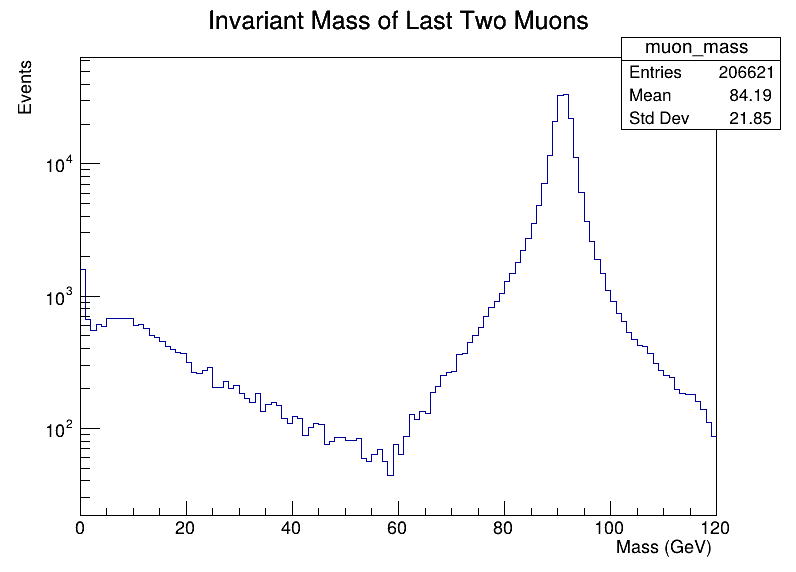
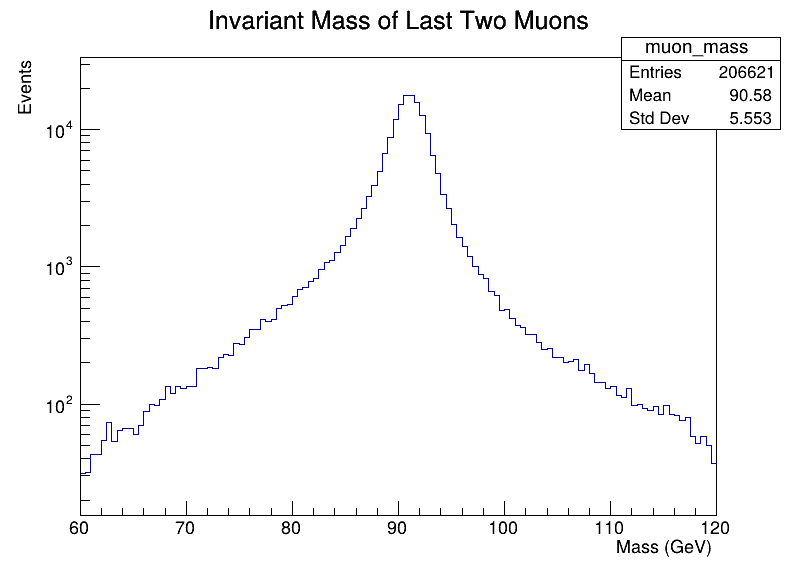
new Fit landau + gauss

diff --git a/EventGeneration/FewVariables/analysis.cpp b/EventGeneration/FewVariables/analysis.cpp
@@ -22,13 +22,13 @@ const std::vector<std::string> inputFiles = {
 const std::vector<double> scaleFactors = {
     //4.542*0.6,   // <-- scale for signal file (See read.me to see how I got them)
     //0.062 *0.6 // <-- scale for background file
-   3.684, 17.401
+   0.6, 10.12
    //22.82, 0.29
 };
 
 // Mass range for histogram and fit
-const double massMin = 60.0;
-const double massMax = 120.0;
+const double massMin = 40;
+const double massMax = 140.0;
 const int histBins = 120;
 
 // Signal mass window for integration (around Z boson ~91.2 GeV)
@@ -39,44 +39,28 @@ const double signalMassWindow = 10.0; // +/- 10 GeV window, adjust as needed
 void buildHistogram(TH1F* hist);
 double integrateFunction(TF1* func, double low, double high);
 
-Double_t doubleCB(Double_t *x, Double_t *par) {
-    // par[0] = Norm
-    // par[1] = Mean
-    // par[2] = Sigma
-    // par[3] = AlphaL
-    // par[4] = nL
-    // par[5] = AlphaR
-    // par[6] = nR
-    // par[7] = offset
+//Fit function Laundau + Gauss
+Double_t landauPlusGauss(Double_t *x, Double_t *par) {
+    // Parameters:
+    // par[0] = Landau amplitude
+    // par[1] = Landau MPV
+    // par[2] = Landau width (sigma)
+    // par[3] = Gaussian amplitude
+    // par[4] = Gaussian mean
+    // par[5] = Gaussian sigma
 
     Double_t xx = x[0];
-    Double_t norm = par[0];
-    Double_t mean = par[1];
-    Double_t sigma = par[2];
-    Double_t alphaL = par[3];
-    Double_t nL = par[4];
-    Double_t alphaR = par[5];
-    Double_t nR = par[6];
-    Double_t offset = par[7];
 
-    Double_t t = (xx - mean) / sigma;
-    Double_t result = 0.0;
+    // Landau component
+    Double_t landau = par[0] * TMath::Landau(xx, par[1], par[2], true);
+    
+    // Gaussian component
+    Double_t gauss = par[3] * TMath::Gaus(xx, par[4], par[5], true);
 
-    if (t < -alphaL) {
-        Double_t A = pow(nL / fabs(alphaL), nL) * exp(-0.5 * alphaL * alphaL);
-        Double_t B = nL / fabs(alphaL) - fabs(alphaL);
-        result = norm * A * pow(B - t, -nL) + offset;
-    }
-    else if (t > alphaR) {
-        Double_t A = pow(nR / fabs(alphaR), nR) * exp(-0.5 * alphaR * alphaR);
-        Double_t B = nR / fabs(alphaR) - fabs(alphaR);
-        result = norm * A * pow(B + t, -nR)+ offset;
-    }
-    else {
-        result = norm * exp(-0.5 * t * t)+ offset;
-    }
-    return result;
-    }
+    return landau + gauss;
+}
+
+
 
 int main() {
     TH1F* combinedHist = new TH1F("combinedHist", "Dimuon Invariant Mass;Mass (GeV);Events", histBins, massMin, massMax);
@@ -101,11 +85,6 @@ int main() {
 
 
         // Set up branches (assuming branches: pT, eta, phi are arrays or std::vector<double>)
-        // Modify these types if your tree has arrays or different types
-        // std::vector<float>* Pt = nullptr;
-        // std::vector<float>* Theta = nullptr;
-        // std::vector<float>* Phi = nullptr;
-
         ROOT::VecOps::RVec<float>* Pt = nullptr;
         ROOT::VecOps::RVec<float>* Theta = nullptr;
         ROOT::VecOps::RVec<float>* Phi = nullptr;
@@ -165,7 +144,6 @@ int main() {
 
             // Use last two muons to calculate invariant mass (as in your original code)
             double mass = (muons[muons.size()-1] + muons[muons.size()-2]).M();
-            //std::cout<< mass <<std::endl;
             if(i==0){
                 sig_Hist->Fill(mass);
             } else if(i==1){
@@ -177,7 +155,7 @@ int main() {
        
         // Scale histogram and add to combined
         file->Close();
-        //delete tempHist; This line causes a segmentation fault if active, I don't know why
+
     }
 
     
@@ -187,7 +165,7 @@ int main() {
     canvas->SetLogy();
     combinedHist->Add(sig_Hist);
     combinedHist->Add(bg_Hist);
-    combinedHist->SetMinimum(75);
+    combinedHist->SetMinimum(700);
     combinedHist->SetLineColor(kRed);
     sig_Hist->SetLineColor(kBlue);
     bg_Hist->SetLineColor(kGreen);
@@ -207,87 +185,72 @@ int main() {
     // Fit combined histogram in the mass range
     // Define signal+background function:
     // For example: background = exponential, signal = Gaussian (adjust as needed)
-    // TF1* fitFunc = new TF1("fitFunc", 
-    //     "[0]*TMath::Gaus(x,[1],[2],true) + [3] + [4]*exp(-[5]*x)", massMin, massMax);
+    TF1 *fitFunc = new TF1("signal", landauPlusGauss, massMin, massMax, 6);
 
     
-    // Initial parameter guesses:
-    // fitFunc->SetParameters(
-    //     combinedHist->GetMaximum(),  // Gaussian amplitude guess
-    //     signalMassCenter,            // Mean near Z mass
-    //     2.5,                        // Width guess (GeV)
-    //     100,                         // Background  constant term
-    //     0.0,                          // exp decay amplitude
-    //     0.0                          // decay factor
-    // );
+    //Initial parameter guesses:
+    fitFunc->SetParNames("LandauAmp", "LandauMPV", "LandauSigma",
+                     "GaussAmp", "GaussMean", "GaussSigma");
 
-    // TF1* bgFunc = new TF1("bgFunc", "[0]+[1] * exp(-[2]*x)", massMin, massMax);
-    // bgFunc->SetParameters(fitFunc->GetParameter(3), fitFunc->GetParameter(4),
-    //                      fitFunc->GetParameter(5));
-    
-
-
-
-    
-    TF1 *fitFunc = new TF1("fitFunc", doubleCB, massMin, massMax, 8);
-    fitFunc->SetParNames("Norm", "Mean", "Sigma", "AlphaL", "nL", "AlphaR", "nR", "offset");
     fitFunc->SetParameters(
-    1e5,    // Norm
-    91.1,   // Mean
-    2.0,    // Sigma
-    1.5,    // AlphaL
-    3.0,    // nL
-    2.0,    // AlphaR
-    4.0,    // nR
-    1e3     // Offset (background floor)
+    10,   // A₁: Landau amplitude (lower than Gaussian)
+    90.0,   // μ₁: Landau MPV, peak of background
+    100,    // σ₁: Landau width
+
+    1e6,  // A₂: Gaussian amplitude (sharp peak)
+    91.0,   // μ₂: Gaussian mean (Z boson peak)
+    2.     // σ₂: Gaussian width
     );
-    // TF1* bgFunc = new TF1("bgFunc", "[0]+[1] * exp(-[2]*x)", massMin, massMax);
-    // bgFunc->SetParameters(5000., 0.1, -0.01);
+    
+    combinedHist->Fit(fitFunc, "RN");
 
-
-
-    combinedHist->Fit(fitFunc, "R");
-
-   
+    // Define Landau-only background function with same parameters as used in combined fit
+    TF1 *bgFunc = new TF1("bgFunc", " [0]*TMath::Landau(x, [1], [2], true) ", massMin, massMax);
+    bgFunc->SetParameters(
+        fitFunc->GetParameter(0), // Landau amplitude
+        fitFunc->GetParameter(1), // Landau MPV
+        fitFunc->GetParameter(2)  // Landau sigma
+    );
 
     // Define integration window around signal peak
-    // double lowBound = signalMassCenter - signalMassWindow;
-    // double highBound = signalMassCenter + signalMassWindow;
+    double lowBound = signalMassCenter - signalMassWindow;
+    double highBound = signalMassCenter + signalMassWindow;
 
-    // double totalIntegral = fitFunc->Integral(lowBound, highBound) / combinedHist->GetBinWidth(1);
-    // double bgIntegral = bgFunc->Integral(lowBound, highBound) / combinedHist->GetBinWidth(1);
-    // double signalIntegral = totalIntegral - bgIntegral;
+    double totalIntegral = fitFunc->Integral(lowBound, highBound) / combinedHist->GetBinWidth(1);
+    double bgIntegral = bgFunc->Integral(lowBound, highBound) / combinedHist->GetBinWidth(1);
+    double signalIntegral = totalIntegral - bgIntegral;
 
     // // Statistical significance (naive)
-    // double significance = signalIntegral / std::sqrt(bgIntegral);
+    double significance = signalIntegral / std::sqrt(bgIntegral);
 
     // Output results
-    // std::cout << "Integration window: [" << lowBound << ", " << highBound << "] GeV" << std::endl;
-    // std::cout << "Total events in window (signal+background): " << totalIntegral << std::endl;
-    // std::cout << "Background events in window: " << bgIntegral << std::endl;
-    // std::cout << "Signal events in window (total - background): " << signalIntegral << std::endl;
-    // std::cout << "Estimated significance (S / sqrt(B)): " << significance << std::endl;
+    std::cout << "Integration window: [" << lowBound << ", " << highBound << "] GeV" << std::endl;
+    std::cout << "Total events in window (signal+background): " << totalIntegral << std::endl;
+    std::cout << "Background events in window: " << bgIntegral << std::endl;
+    std::cout << "Signal events in window (total - background): " << signalIntegral << std::endl;
+    std::cout << "Estimated significance (S / sqrt(B)): " << significance << std::endl;
 
     // Save plot with fit
     TCanvas* c = new TCanvas("c", "Dimuon Mass Fit", 800, 600);
-    combinedHist->SetMinimum(2000);
+    //combinedHist->SetMinimum(2000);
     combinedHist->Draw();
     c->SetLogy();
     fitFunc->SetLineColor(kBlue);
     fitFunc->Draw("same");
-    // bgFunc->SetLineColor(kGreen);
-    // bgFunc->SetLineStyle(2);
-    // bgFunc->Draw("same");
-    // bg_Hist->SetLineColor(kOrange);
-    // bg_Hist->Draw("Same");
+    bgFunc->SetLineColor(kGreen);
+    bgFunc->SetLineStyle(2);
+    bgFunc->Draw("same");
+    bg_Hist->SetLineColor(kOrange);
+    bg_Hist->Draw("Same");
 
     TLegend* legend2 = new TLegend(0.15, 0.7, 0.35, 0.9);  // top-left corner
     legend2->AddEntry(combinedHist, "Combined hist", "l");
-    legend2->AddEntry(fitFunc, "Fit", "l");
-    //legend2->AddEntry(bgFunc, "Background fit", "l");
+    legend2->AddEntry(fitFunc, "Gauss + Landau Fit", "l");
+    legend2->AddEntry(bgFunc, "Background fit", "l");
+    legend2->AddEntry(bg_Hist, "Background hist", "l");
     legend2->Draw();
 
-    c->SaveAs("dimuon_mass_fit.png");
+    c->SaveAs("dimuon_mass_gauss_fit.png");
 
     delete combinedHist;
     delete fitFunc;

diff --git a/EventGeneration/FewVariables/makebackground.cpp b/EventGeneration/FewVariables/makebackground.cpp
@@ -43,7 +43,7 @@ int main() {
     tree->Branch("Id", &Id);
 
 
-    pythia.run(15000, [&](Pythia* pythiaPtr){
+    pythia.run(1000000, [&](Pythia* pythiaPtr){
         ++passedEvents;
         Pt.clear(); Theta.clear(); Phi.clear(); Id.clear();
         int good_muons = 0;
